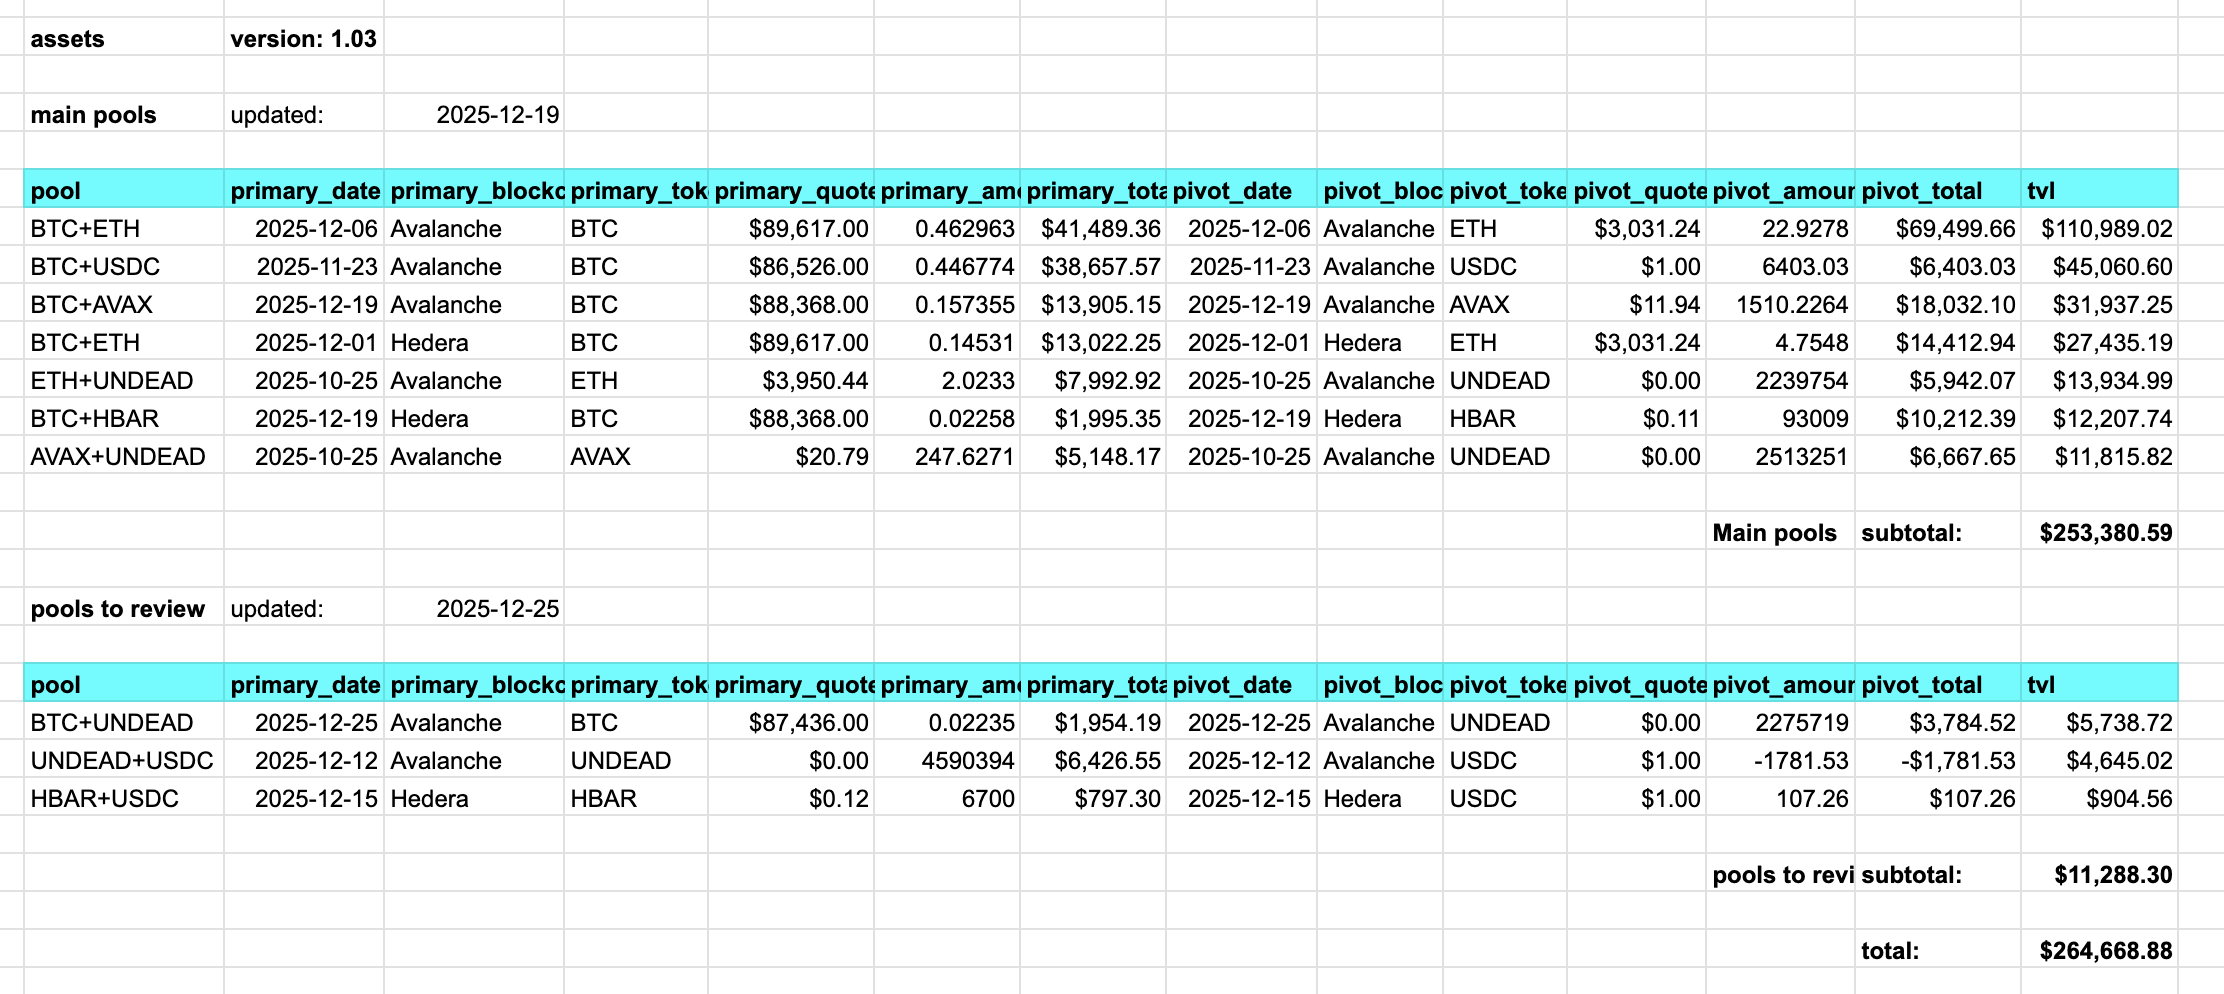
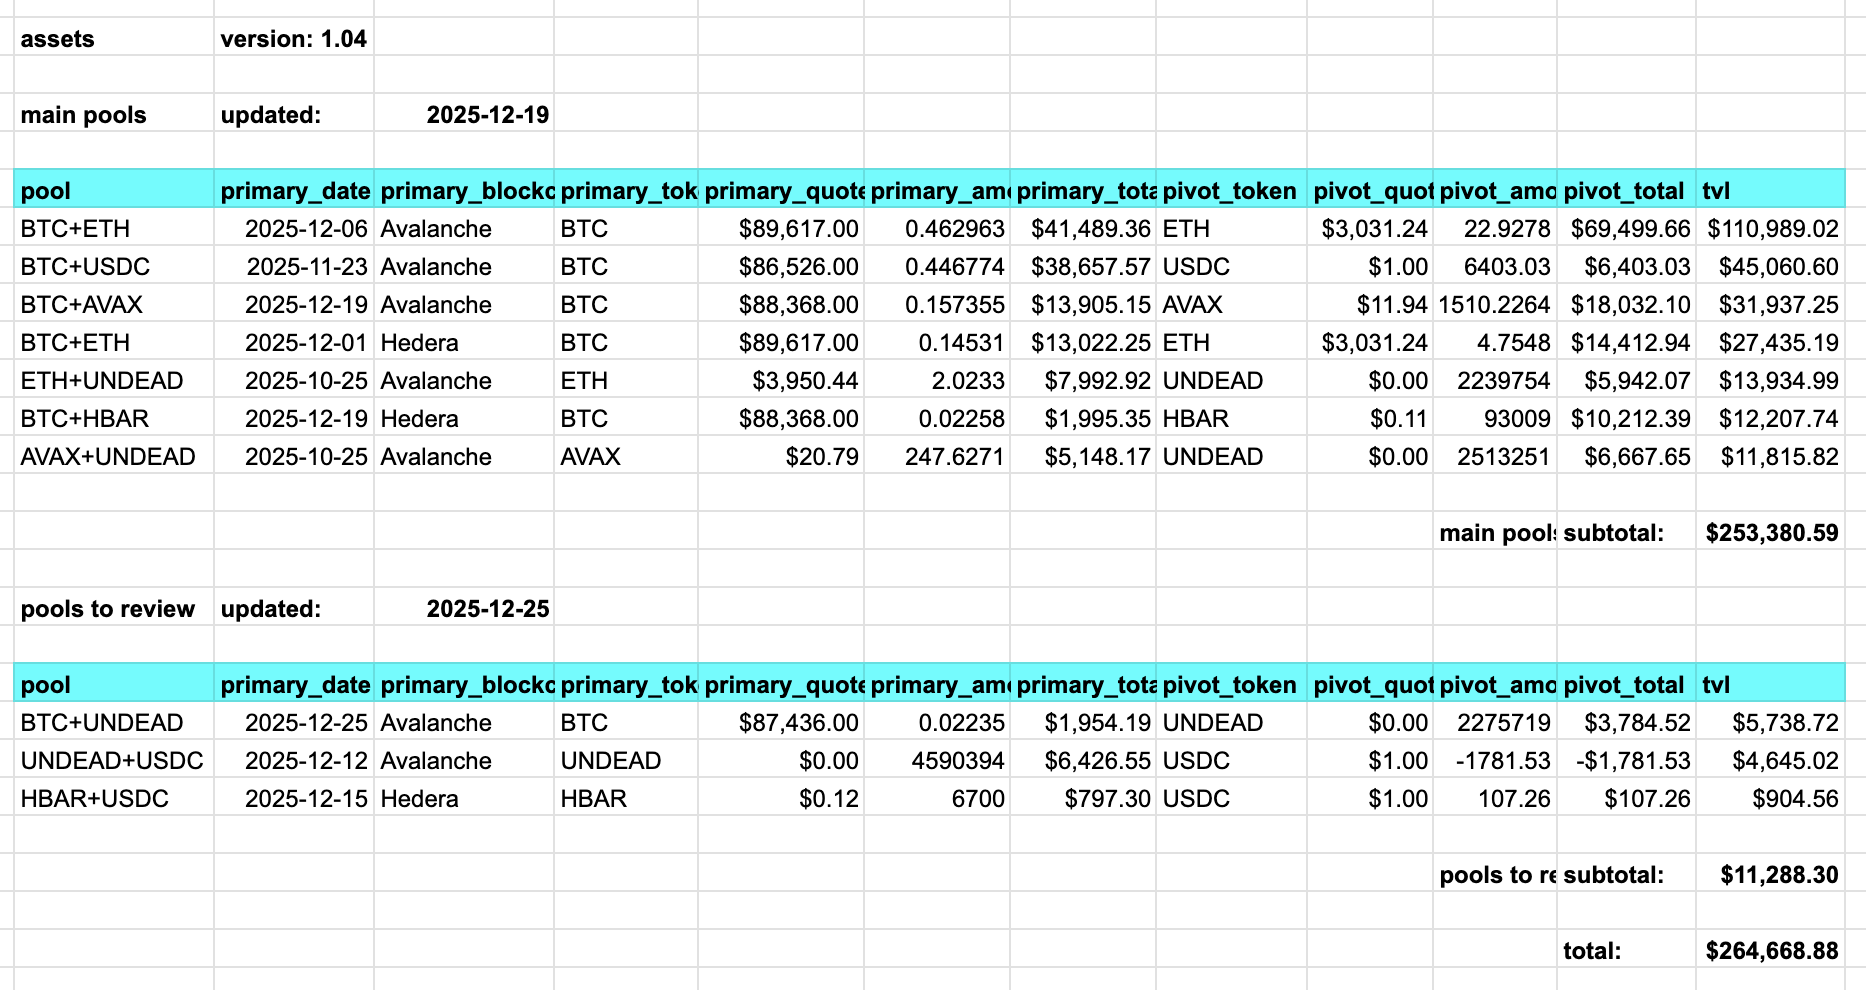
assets, v1.04: removed redundant date and blockchain columns from PivotAsset

diff --git a/libs/src/types/assets.rs b/libs/src/types/assets.rs
@@ -28,16 +28,12 @@ impl Measurable for Asset {
 }
 
 impl CsvHeader for Asset {
-   fn header(&self) -> String {
-      "date,blockchain,token,quote,amount,total".to_string()
-   }
+   fn header(&self) -> String { format!("date,blockchain,{}", base_header()) }
 }
 impl CsvWriter for Asset {
-   fn ncols(&self) -> usize { 6 }
+   fn ncols(&self) -> usize { 2 + base_sz() }
    fn as_csv(&self) -> String {
-      format!("{},{},{},{},{},{}", 
-              self.date, self.blockchain, self.token, self.quote, self.amount,
-              mk_usd(self.amount * self.quote.amount))
+      format!("{},{},{}", self.date, self.blockchain, base_csv_values(&self))
    }
 }
 
@@ -45,7 +41,6 @@ impl Asset {
    pub fn key(&self) -> (Blockchain, Token) {
       (self.blockchain.clone(), self.token.clone())
    }
-   pub fn tvl(&self) -> USD { mk_usd(self.amount * self.quote.amount) }
 }
 
 pub fn mk_asset(k: &(Blockchain, Token), amount: f32,
@@ -57,4 +52,35 @@ pub fn mk_asset(k: &(Blockchain, Token), amount: f32,
            quote: quote.clone(),
            date: date.clone() }
 }
+
+/// Representation of an asset without the redundant date and blockchain data
+#[derive(Debug,Clone)]
+pub struct PivotAsset { asset: Asset }
+
+pub fn mk_pivot_asset(asset: Asset) -> PivotAsset { PivotAsset { asset } }
+
+impl CsvHeader for PivotAsset {
+   fn header(&self) -> String { base_header() }
+}
+impl CsvWriter for PivotAsset {
+   fn ncols(&self) -> usize { base_sz() }
+   fn as_csv(&self) -> String { base_csv_values(&self.asset) }
+}
+
+fn base_header() -> String { "token,quote,amount,total".to_string() }
+fn base_csv_values(a: &Asset) -> String {
+   format!("{},{},{},{}", a.token, a.quote, a.amount, tvl(a))
+}
+fn base_sz() -> usize { 4 }
+
+impl Measurable for PivotAsset {
+   fn sz(&self) -> f32 { self.asset.sz() }
+   fn aug(&self) -> f32 { self.asset.aug() }
+}
+
+impl PivotAsset {
+   pub fn key(&self) -> Token { self.asset.token.clone() }
+}
+
+pub fn tvl<M: Measurable>(asset: &M) -> USD { mk_usd(asset.sz() * asset.aug()) }
 

diff --git a/quizzes/quiz06/b_pools/src/main.rs b/quizzes/quiz06/b_pools/src/main.rs
@@ -1,5 +1,5 @@
 use book::{
-   currency::usd::{USD,mk_usd},
+   currency::usd::{USD,mk_usd,no_monay},
    csv_utils::{CsvWriter,mk_blank},
    err_utils::ErrStr,
    num_utils::parse_or,
@@ -16,7 +16,7 @@ use libs::{
   }
 };
 
-fn version() -> String { "1.03".to_string() }
+fn version() -> String { "1.04".to_string() }
 fn app_name() -> String { "assets".to_string() }
 fn min_default() -> f32 { 10000.0 }
 
@@ -32,30 +32,33 @@ async fn main() -> ErrStr<()> {
       let pool = fetch_assets(&root_url, &prim, &piv).await?;
       pools.push(pool);
    }
+   report_on_assets(pools, min_val);
+   Ok(())
+}
+
+fn report_on_assets(pools: Vec<Composition>, min_val: USD) {
    let skip = if let Some(a_pool) = pools.first() { a_pool.ncols() } else {
       panic!("Portfolio has no pivot pools!")
    } - 3;
    let (mut viab, mut poor): (Vec<_>, Vec<_>)
       = pools.into_iter().partition(|p| p.tvl() > min_val);
-   viab.sort_by(sort_by_size);
-   let sz1 = total(&viab);
-   poor.sort_by(sort_by_size);
-   let sz2 = total(&poor);
    println!("{}, version: {}", app_name(), version());
-   print_update("main pools", &viab);
-   footer(skip, "Main pools,subtotal", &sz1);
-   print_update("pools to review", &poor);
-   footer(skip, "pools to review,subtotal", &sz2);
+   let sz1 = print_update(skip, "main pools", &mut viab);
+   let sz2 = print_update(skip, "pools to review", &mut poor);
    footer(skip, " ,total", &(sz1 + sz2));
-   Ok(())
 }
 
-fn print_update(title: &str, pools: &Vec<Composition>) {
+fn print_update(skip: usize, title: &str, pools: &mut Vec<Composition>) -> USD {
    if let Some(updated) = last_updated(pools) {
+      pools.sort_by(sort_by_size);
+      let tot = total(pools);
       let header = format!("{title},updated:,{updated}");
       print_table(&header, pools);
+      footer(skip, &format!("{title},subtotal"), &tot);
+      tot
    } else {
       println!("\nNo {title}");
+      no_monay()
    }
 }
 

diff --git a/libs/src/types/comps.rs b/libs/src/types/comps.rs
@@ -6,7 +6,7 @@ use book::{
 };
 
 use super::{
-   assets::Asset,
+   assets::{Asset,PivotAsset,tvl,mk_pivot_asset},
    measurable::{Measurable,size},
    util::CsvHeader
 };
@@ -14,21 +14,26 @@ use super::{
 #[derive(Debug,Clone)]
 pub struct Composition {
    primary: Asset,
-   pivot: Asset
+   pivot: PivotAsset
 }
 
 pub fn mk_composition(primary: Asset, pivot: Asset) -> Composition {
-   Composition { primary, pivot }
+   Composition { primary, pivot: mk_pivot_asset(pivot) }
 }
 
 impl Composition {
    pub fn pool_name(&self) -> String {
       let (_, pri) = self.primary.key();
-      let (_, piv) = self.pivot.key();
+      let piv = self.pivot.key();
       format!("{pri}+{piv}")
    }
 
-   pub fn tvl(&self) -> USD { self.primary.tvl() + self.pivot.tvl() }
+   pub fn tvl(&self) -> USD { tvl(&self.primary) + tvl(&self.pivot) }
+}
+
+impl Measurable for Composition {
+   fn sz(&self) -> f32 { self.tvl().amount }
+   fn aug(&self) -> f32 { 1.0 }
 }
 
 pub fn total(pools: &Vec<Composition>) -> USD {
@@ -37,11 +42,6 @@ pub fn total(pools: &Vec<Composition>) -> USD {
 
 pub fn last_updated(pools: &Vec<Composition>) -> Option<NaiveDate> {
    pools.iter().map(|p| p.primary.date).max()
-}
-
-impl Measurable for Composition {
-   fn sz(&self) -> f32 { self.tvl().amount }
-   fn aug(&self) -> f32 { 1.0 }
 }
 
 impl CsvWriter for Composition {

diff --git a/libs/src/collections/assets.rs b/libs/src/collections/assets.rs
@@ -1,7 +1,7 @@
 use std::collections::HashMap;
 
 use crate::types::{
-   assets::Asset,
+   assets::{Asset,tvl},
    measurable::{sort_by_weight},
    util::{Token,Blockchain}
 };
@@ -39,13 +39,7 @@ impl Assets {
 pub fn assets_by_price(a: &Assets) -> Vec<Asset> { a.assets() }
 pub fn assets_by_tvl(a: &Assets) -> Vec<Asset> {
    let mut ans = a.assets();
-   ans.sort_by(|a, b| b.tvl().cmp(&a.tvl()));
+   ans.sort_by(|a, b| tvl(b).cmp(&tvl(a)));
    ans
 }
-
-/// One way to look at a PivotPool is that it is an assets, ... I mean:
-/// I had pivot pools with three assets before ... it wasn't a good idea then,
-/// but who's to say I won't reevaluate that decision?
-
-pub type PivotPool = Assets;
 

diff --git a/dapps/assets/README.md b/dapps/assets/README.md
@@ -8,6 +8,8 @@ Snapshot of the protocol's pivot pools. Partitions pools by TVL
 
 ## History
 
+* 1.04, 2025-12-28: removed redundant blockchain and date-information from pivot
+assets
 * 1.03, 2025-12-28: added last-updated information to pivot pools
 * 1.02, 2025-12-28: totalling partitioned- and all pivot pools' assets
 * 1.01, 2025-12-28: refactored `min_default` to a function
